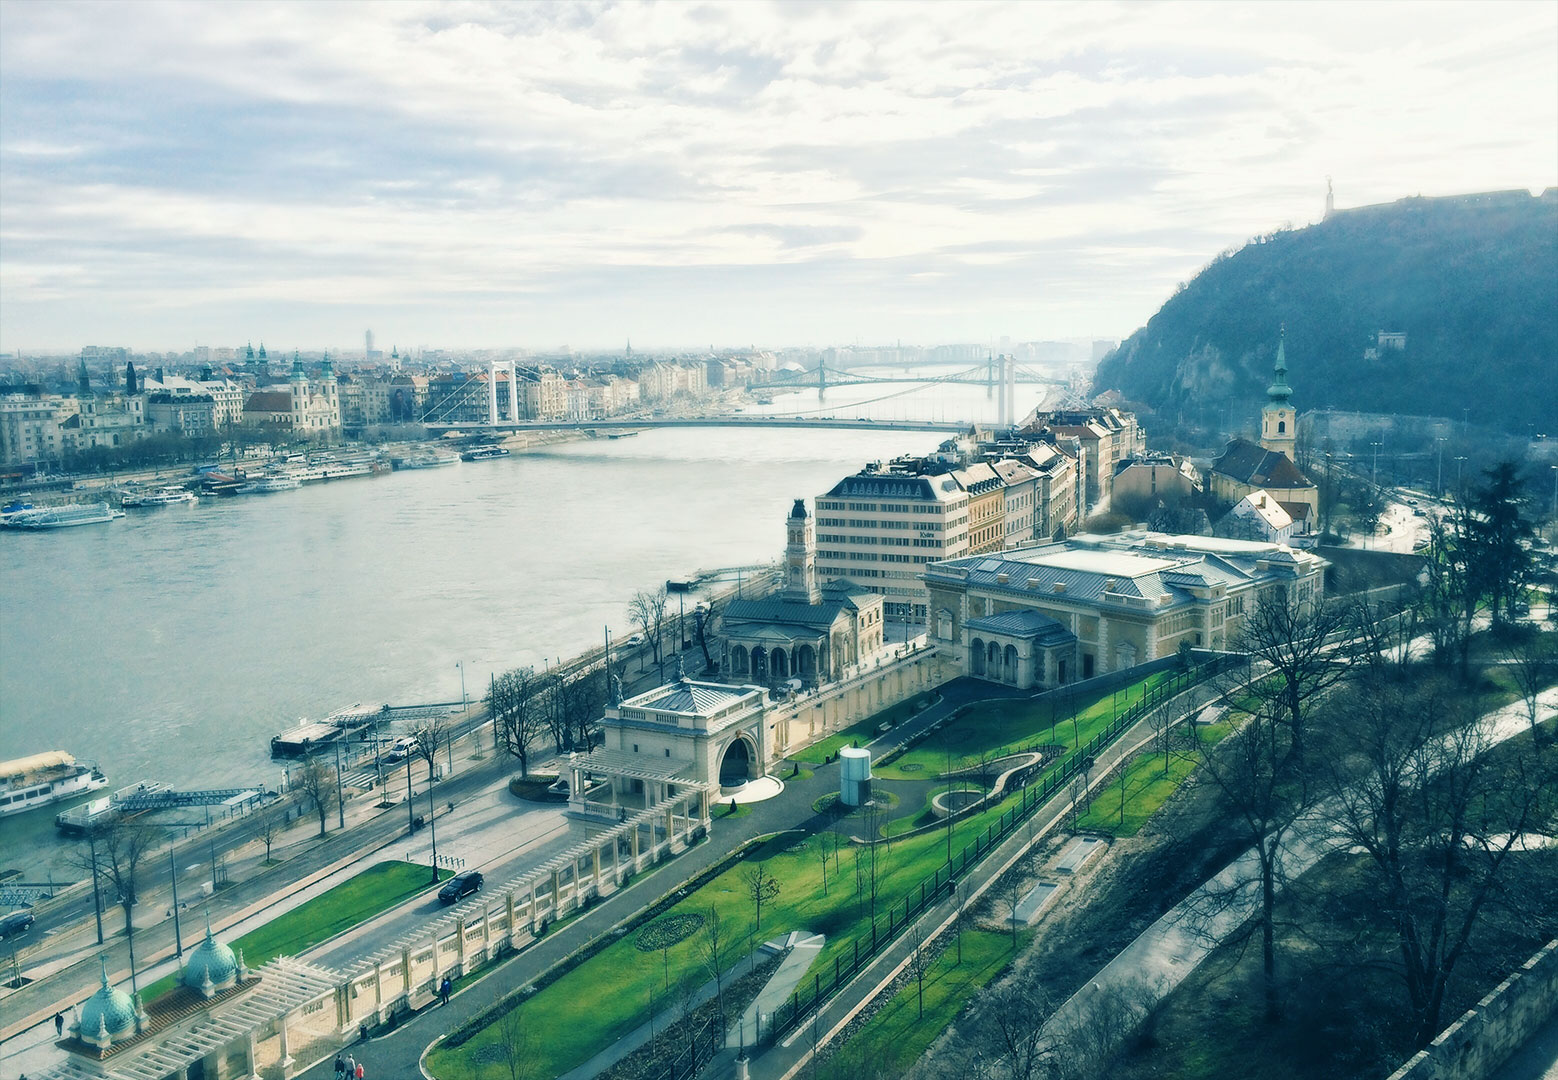
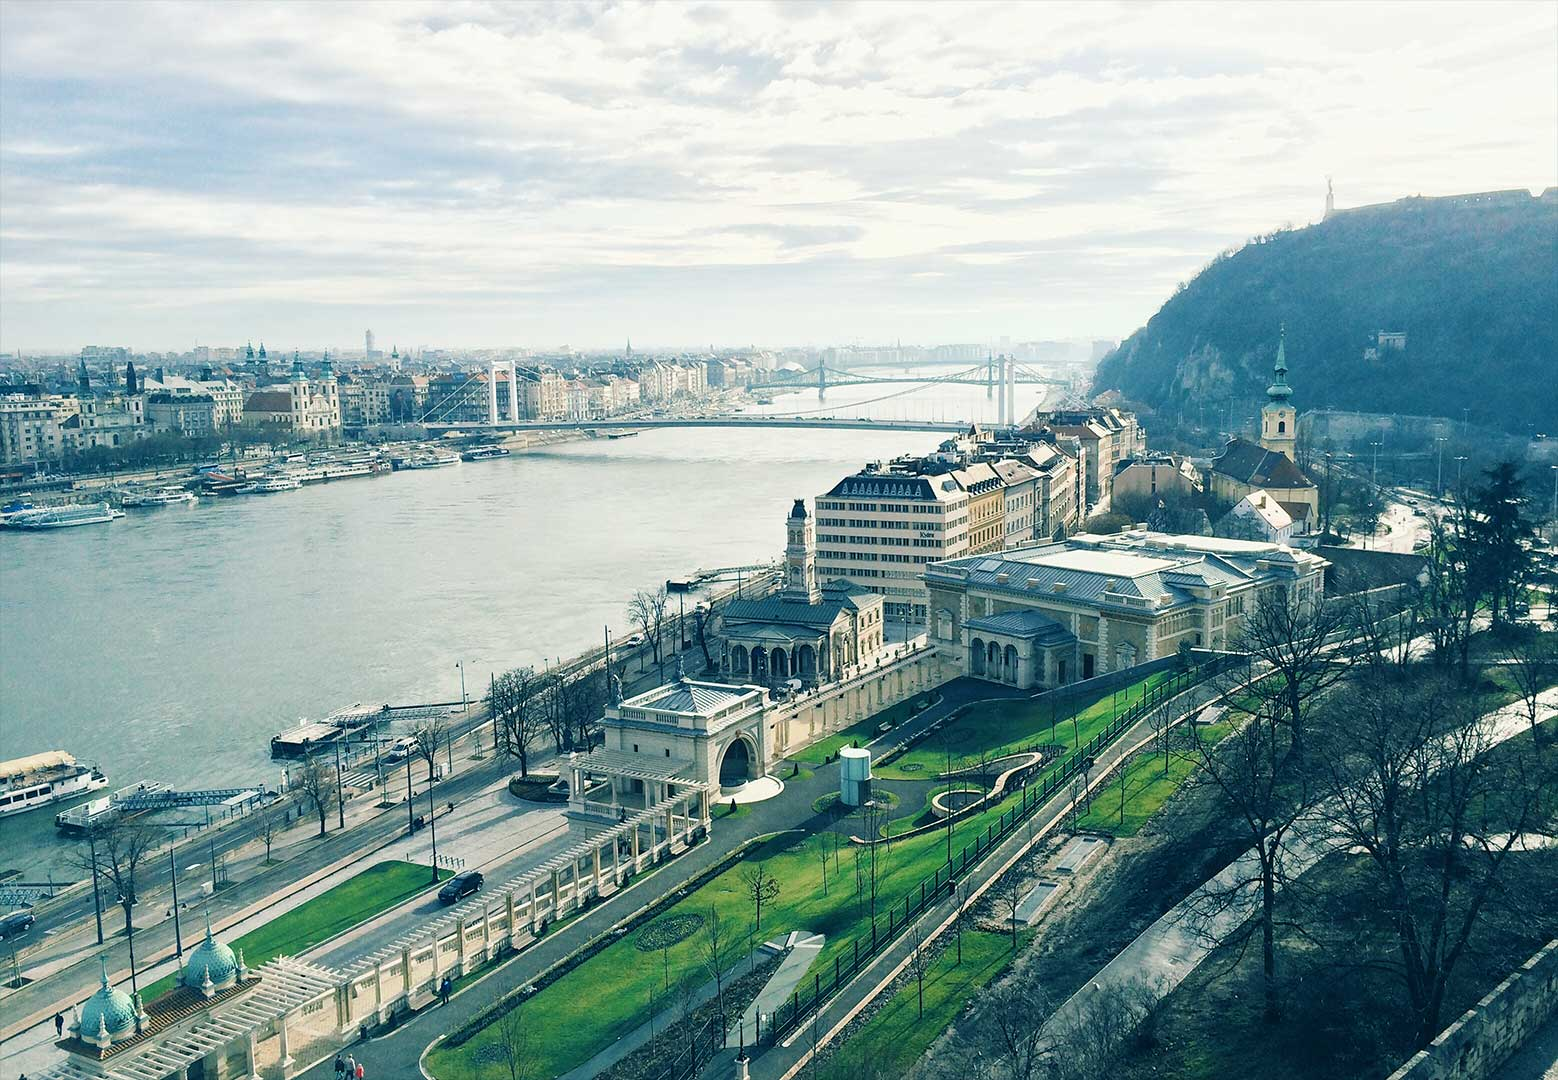
resp bg images

diff --git a/index.html b/index.html
@@ -10,137 +10,147 @@
 
 
 
-  <script type="text/paperscript" canvas="Trianglewave">
+<script type="text/paperscript" canvas="Trianglewave">
+
 
   var hypotenuse = function (a) {
     return Math.sqrt(Math.pow(a, 2) * 2);
   }
 
 
-  var raster = new Raster('bg1080.jpg');
-  var loaded = false;
   var sqwidth = 64;
-  var unitSize = new Size(sqwidth, sqwidth);
   var largeSide = hypotenuse(sqwidth);
   var halfLargeSide = largeSide / 2;
+  var unitSize = new Size(sqwidth, sqwidth);
+  var loaded = false;
 
-  raster.on('load', function() {
-    raster.fitBounds(view.bounds, true);
-    loaded = true;
-
-    var startX = view.center.x - Math.ceil(view.center.x / largeSide) * largeSide;
-    var next = [
-      startX,
-      view.center.y - Math.ceil(view.center.y / largeSide) * largeSide
-    ];
-
-    var line = 0;
-    var end = false;
-    var mesh = [];
-
-    while(next) {
-      var res = generateSquare(next, line, mesh);
-      var pre = (line % 4 == 0) ? 1 : -1;
-
-      if (res[0] > view.size.width && res[1] > view.size.height && end == false) {
-
-        end = line + 1
-        res[0] = startX + (pre * halfLargeSide/2);
-        res[1] = next[1] + halfLargeSide;
-        line += 2;
-
-      } else if (res[0] > view.size.width) {
-
-        if (end) {
-          next = false;
-          break;
-        }
-
-        res[0] = startX + (pre * halfLargeSide/2);
-        res[1] = next[1] + halfLargeSide;
-        line += 2;
-
-      } else {
-
-        res[0] = next[0] + largeSide;
-        res[1] = next[1]
-
-      }
-
-      next = res;
+  var getImg = function () {
+    var ratio = window.devicePixelRatio &&  window.devicePixelRatio > 1 ? 2 : 1;
+    var width = (window.innerWidth > 0) ? window.innerWidth : screen.width;
+    if (width > 1080) {
+      return 'bg1080x2.jpg'
+    } else if (width > 720 && ratio > 1) {
+      return 'bg1080x2.jpg'
+    } else if (width > 720 && ratio == 1) {
+      return 'bg1080.jpg'
+    } else if (ratio > 1) {
+      return 'bg720x2.jpg'
+    } else {
+      return 'bg720.jpg'
     }
-
-    view.onFrame = function (e) {
-      mesh.map(function (tri) {
-          tri.JSCwaveProp[0] += e.delta*1.4
-          tri.opacity = wavePoint.apply(null, tri.JSCwaveProp)
-      })
-    }
-
-  });
-
-
-function onMouseEnter () {
-  this.fillColor='red';
-}
-function onMouseLeave () {
-  this.fillColor='white';
-}
-
-function wavePoint (x, line, pre) {
-  var l = line + Math.sin(line);
-  return 0.5 * Math.pow(
-    Math.sin(
-      ( x + l + (pre * sqwidth/2) ) / 3
-    ), 2
-  ) + 0.2
-}
-
-function generateSquare (coords, line, mesh) {
-  var x = coords[0],
-      y = coords[1];
-  var rand = [];
-
-  if (Math.random() > 0.55) {
-    rand = [0,2]
-  } else {
-    rand = [1,3]
   }
 
-  var center = new Point(x-(halfLargeSide), y-(halfLargeSide))
+  function init () {
 
-  var triangle1 = new Path.Rectangle(center, unitSize);
-  triangle1.fillColor='white';
-  triangle1.removeSegment(rand[0]); // 0
-  triangle1.rotate(45);
-  triangle1.blendMode = 'screen'
+    var raster = new Raster(getImg());
 
-  triangle1.opacity = wavePoint(x, line, 1)
-triangle1.JSCwaveProp = [x, line, 1]
+    raster.on('load', function() {
 
-  triangle1.onMouseEnter = onMouseEnter
-  triangle1.onMouseLeave = onMouseLeave
+      raster.fitBounds(view.bounds, true);
+      loaded = true;
 
-  mesh.push(triangle1)
+      var startX = view.center.x - Math.ceil(view.center.x / largeSide) * largeSide;
+      var next = [
+        startX,
+        view.center.y - Math.ceil(view.center.y / largeSide) * largeSide
+      ];
 
-  var triangle2 = new Path.Rectangle(center, unitSize);
-  triangle2.fillColor='white';
-  triangle2.removeSegment(rand[1]); // 2
-  triangle2.rotate(45);
-  triangle2.blendMode = 'screen'
-  //triangle2.opacity =Math.pow(Math.sin((x-sqwidth)/2),2)
-  triangle2.opacity = wavePoint(x, line+1, -1)
+      var line = 0;
+      var end = false;
+      var mesh = [];
 
-triangle2.JSCwaveProp = [x, line+1, -1]
+      while(next) {
+        var res = generateSquare(next, line, mesh);
+        var pre = (line % 4 == 0) ? 1 : -1;
 
-  triangle2.onMouseEnter = onMouseEnter
-  triangle2.onMouseLeave = onMouseLeave
+        if (res[0] > view.size.width && res[1] > view.size.height && end == false) {
 
-  mesh.push(triangle2)
+          end = line + 1
+          res[0] = startX + (pre * halfLargeSide/2);
+          res[1] = next[1] + halfLargeSide;
+          line += 2;
 
-  return [x+(halfLargeSide), y+(halfLargeSide)];
+        } else if (res[0] > view.size.width) {
 
-}
+          if (end) {
+            next = false;
+            break;
+          }
+
+          res[0] = startX + (pre * halfLargeSide/2);
+          res[1] = next[1] + halfLargeSide;
+          line += 2;
+
+        } else {
+
+          res[0] = next[0] + largeSide;
+          res[1] = next[1]
+
+        }
+
+        next = res;
+      }
+
+      view.onFrame = function (e) {
+        mesh.map(function (tri) {
+            tri.JSCwaveProp[0] += e.delta*1.4
+            tri.opacity = wavePoint.apply(null, tri.JSCwaveProp)
+        })
+      }
+
+    });
+  }
+
+  function wavePoint (x, line, pre) {
+    var l = line + Math.sin(line);
+    return 0.5 * Math.pow(
+      Math.sin(
+        ( x + l + (pre * sqwidth/2) ) / 3
+      ), 2
+    ) + 0.2
+  }
+
+  function generateSquare (coords, line, mesh) {
+    var x = coords[0],
+        y = coords[1];
+    var rand = [];
+
+    if (Math.random() > 0.55) {
+      rand = [0,2]
+    } else {
+      rand = [1,3]
+    }
+
+    var center = new Point(x-(halfLargeSide), y-(halfLargeSide))
+
+    var triangle1 = new Path.Rectangle(center, unitSize);
+    triangle1.fillColor='white';
+    triangle1.removeSegment(rand[0]); // 0
+    triangle1.rotate(45);
+    triangle1.blendMode = 'screen'
+
+    triangle1.opacity = wavePoint(x, line, 1)
+    triangle1.JSCwaveProp = [x, line, 1]
+
+    mesh.push(triangle1)
+
+    var triangle2 = new Path.Rectangle(center, unitSize);
+    triangle2.fillColor='white';
+    triangle2.removeSegment(rand[1]); // 2
+    triangle2.rotate(45);
+    triangle2.blendMode = 'screen'
+    triangle2.opacity = wavePoint(x, line+1, -1)
+    triangle2.JSCwaveProp = [x, line+1, -1]
+
+    mesh.push(triangle2)
+
+    return [x+(halfLargeSide), y+(halfLargeSide)];
+
+  }
+
+
+
+init()
 
   </script>
 
